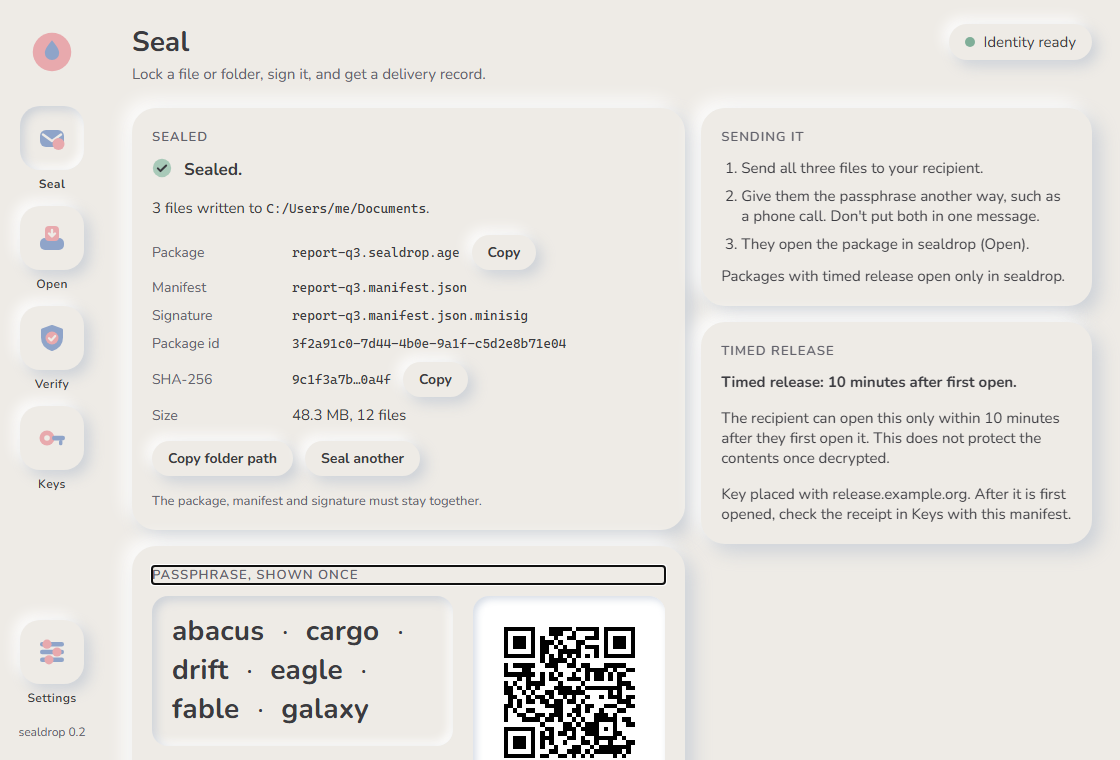
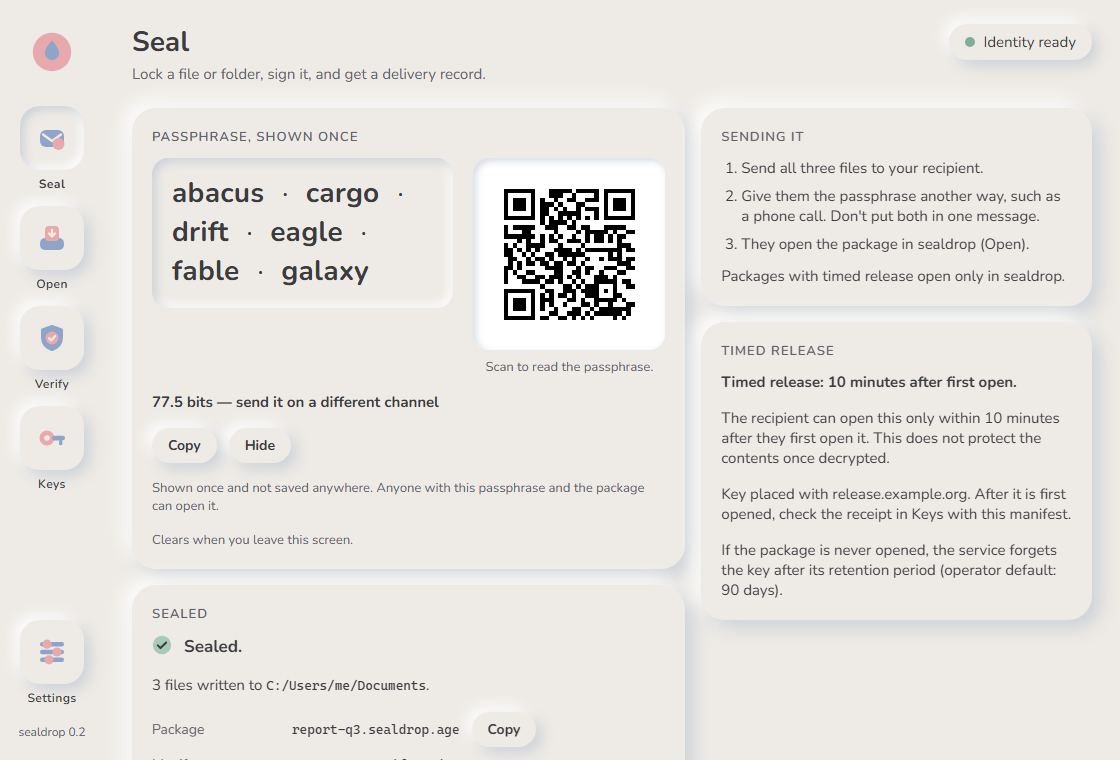
fix(desktop): no focus ring on programmatic headings; passphrase first
- headings that only take programmatic focus (tabindex -1: page titles,
  "Sealed.", "Opened.", the passphrase tile) get a `.no-ring` class with
  outline: none; Chromium shows focus-visible after programmatic focus, so
  :focus:not(:focus-visible) was not enough
- Seal success renders the passphrase tile first in the left column so the
  words and QR are above the fold at 760 px (focus already went there)
- regenerated seal-passphrase.png and open-timed.png
  (npx -y playwright@1 screenshot --viewport-size=1120,760, mock mode)

diff --git a/apps/desktop/src/screens/Seal.tsx b/apps/desktop/src/screens/Seal.tsx
@@ -385,57 +385,7 @@ export default function Seal({ active }: { active: boolean }) {
         <FirstRunBanner />
         <div className="cols-12">
           <div className="span-7 stack">
-            <Tile title="Sealed">
-              <div className="stack">
-                <div className="row" style={{ alignItems: "flex-start" }}>
-                  <GlyphOk />
-                  <h3 ref={sealedHeading} tabIndex={-1} className="lead">
-                    Sealed.
-                  </h3>
-                </div>
-                <div>
-                  3 files written to <span className="mono">{sealed.folder}</span>.
-                </div>
-                <div className="stack stack--sm">
-                  <KV k="Package">
-                    <span className="cluster" style={{ gap: 12 }}>
-                      <span className="mono">{pkgName}</span>
-                      <CopyButton text={o.package} ariaLabel="Copy package path" />
-                    </span>
-                  </KV>
-                  <KV k="Manifest" mono>
-                    {manName}
-                  </KV>
-                  <KV k="Signature" mono>
-                    {manName}.minisig
-                  </KV>
-                  <KV k="Package id" mono>
-                    {o.package_id}
-                  </KV>
-                  <KV k="SHA-256">
-                    <span className="cluster" style={{ gap: 12 }}>
-                      <span className="mono" title={o.ciphertext_sha256}>
-                        {shortHash(o.ciphertext_sha256)}
-                      </span>
-                      <CopyButton text={o.ciphertext_sha256} ariaLabel="Copy SHA-256" />
-                    </span>
-                  </KV>
-                  <KV k="Size">
-                    {formatBytes(o.bytes)}, {o.files} {plural(o.files, "file")}
-                  </KV>
-                </div>
-                <div className="cluster" style={{ gap: 12 }}>
-                  <CopyButton text={sealed.folder} label="Copy folder path" />
-                  <SoftButton size="sm" onClick={reset}>
-                    Seal another
-                  </SoftButton>
-                </div>
-                <p className="field__helper" style={{ margin: 0 }}>
-                  The package, manifest and signature must stay together.
-                </p>
-              </div>
-            </Tile>
-
+            {/* The passphrase comes first so it is above the fold at 760 px. */}
             {sealed.mode === "passphrase" ? (
               pass !== null ? (
                 <Tile title="Passphrase, shown once" headingRef={passHeading} headingFocusable>
@@ -482,6 +432,58 @@ export default function Seal({ active }: { active: boolean }) {
                 </Tile>
               )
             ) : null}
+
+            <Tile title="Sealed">
+              <div className="stack">
+                <div className="row" style={{ alignItems: "flex-start" }}>
+                  <GlyphOk />
+                  <h3 ref={sealedHeading} tabIndex={-1} className="lead no-ring">
+                    Sealed.
+                  </h3>
+                </div>
+                <div>
+                  3 files written to <span className="mono">{sealed.folder}</span>.
+                </div>
+                <div className="stack stack--sm">
+                  <KV k="Package">
+                    <span className="cluster" style={{ gap: 12 }}>
+                      <span className="mono">{pkgName}</span>
+                      <CopyButton text={o.package} ariaLabel="Copy package path" />
+                    </span>
+                  </KV>
+                  <KV k="Manifest" mono>
+                    {manName}
+                  </KV>
+                  <KV k="Signature" mono>
+                    {manName}.minisig
+                  </KV>
+                  <KV k="Package id" mono>
+                    {o.package_id}
+                  </KV>
+                  <KV k="SHA-256">
+                    <span className="cluster" style={{ gap: 12 }}>
+                      <span className="mono" title={o.ciphertext_sha256}>
+                        {shortHash(o.ciphertext_sha256)}
+                      </span>
+                      <CopyButton text={o.ciphertext_sha256} ariaLabel="Copy SHA-256" />
+                    </span>
+                  </KV>
+                  <KV k="Size">
+                    {formatBytes(o.bytes)}, {o.files} {plural(o.files, "file")}
+                  </KV>
+                </div>
+                <div className="cluster" style={{ gap: 12 }}>
+                  <CopyButton text={sealed.folder} label="Copy folder path" />
+                  <SoftButton size="sm" onClick={reset}>
+                    Seal another
+                  </SoftButton>
+                </div>
+                <p className="field__helper" style={{ margin: 0 }}>
+                  The package, manifest and signature must stay together.
+                </p>
+              </div>
+            </Tile>
+
           </div>
 
           <div className="span-5 stack">

diff --git a/apps/desktop/src/styles/neu.css b/apps/desktop/src/styles/neu.css
@@ -203,6 +203,10 @@ textarea.neu-inset { resize: none; display: block; }
 .sr-only { position: absolute; width: 1px; height: 1px; margin: -1px; padding: 0; overflow: hidden; clip: rect(0 0 0 0); white-space: nowrap; border: 0; }
 .hide { display: none !important; }
 .w-full { width: 100%; }
+/* Headings that only receive focus programmatically (tabindex="-1", to move screen-reader
+   focus after a step). Chromium treats programmatic focus as focus-visible, so
+   :focus:not(:focus-visible) is not enough; they never get a ring. */
+.no-ring, .no-ring:focus, .no-ring:focus-visible { outline: none; }
 
 /* ---- Motion and forced colours ----------------------------------- */
 @media (prefers-reduced-motion: reduce) {

diff --git a/apps/desktop/src/components/Tile.tsx b/apps/desktop/src/components/Tile.tsx
@@ -21,7 +21,11 @@ export function Tile({ title, headingRef, headingFocusable, headingClass = "labe
   return (
     <section className={`neu-tile${className ? ` ${className}` : ""}`} aria-labelledby={title ? id : undefined} {...rest}>
       {title ? (
-        <h2 id={id} ref={headingRef} className={headingClass} tabIndex={headingFocusable ? -1 : undefined} style={{ margin: "0 0 12px" }}>
+        <h2
+          id={id}
+          ref={headingRef}
+          className={headingFocusable ? `${headingClass} no-ring` : headingClass}
+          tabIndex={headingFocusable ? -1 : undefined} style={{ margin: "0 0 12px" }}>
           {title}
         </h2>
       ) : null}

diff --git a/apps/desktop/src/screens/Open.tsx b/apps/desktop/src/screens/Open.tsx
@@ -370,7 +370,7 @@ export default function Open({ active }: { active: boolean }) {
               <div className="stack">
                 <div className="row" style={{ alignItems: "flex-start" }}>
                   <GlyphOk />
-                  <h3 ref={headingRef} tabIndex={-1} className="lead">
+                  <h3 ref={headingRef} tabIndex={-1} className="lead no-ring">
                     Opened.
                   </h3>
                 </div>

diff --git a/apps/desktop/src/components/PageHead.tsx b/apps/desktop/src/components/PageHead.tsx
@@ -9,7 +9,7 @@ export function PageHead({ title, subtitle }: { title: string; subtitle: string 
   return (
     <header className="page-head">
       <div>
-        <h1 className="h1" tabIndex={-1} style={{ outline: "none" }}>{title}</h1>
+        <h1 className="h1 no-ring" tabIndex={-1}>{title}</h1>
         <div className="muted" style={{ marginTop: 4 }}>
           {subtitle}
         </div>

diff --git a/docs/design/brief.md b/docs/design/brief.md
@@ -330,7 +330,7 @@ Grid: left `.span-7` = tiles A ("What to send") and B ("Who can open it"); right
 | C Timed release | Tile, Toggle, Field number+unit, sentence (text), service line + SoftButton link |
 | D Details | Tile, Field disclosure; revealed: Field text (classification), Field date (advisory expiry), Toggle (ASCII armor) |
 | E Save to | Tile, Field path + SoftButton "Choose…", Pill `progress`, status text, SoftButton primary "Seal" |
-| After success | Tile (Sealed), Tile (Sending it), Tile (Passphrase, passphrase mode), Tile (Timed release, timed only); SoftButton "Copy folder path", "Seal another", "Copy", "Hide"; Chip `word`; QR (see below) |
+| After success | Tile (Passphrase, passphrase mode; first in the left column so it is above the fold at 760 px), Tile (Sealed), Tile (Sending it), Tile (Timed release, timed only); SoftButton "Copy folder path", "Seal another", "Copy", "Hide"; Chip `word`; QR (see below) |
 
 ### 4.3 Copy
 
